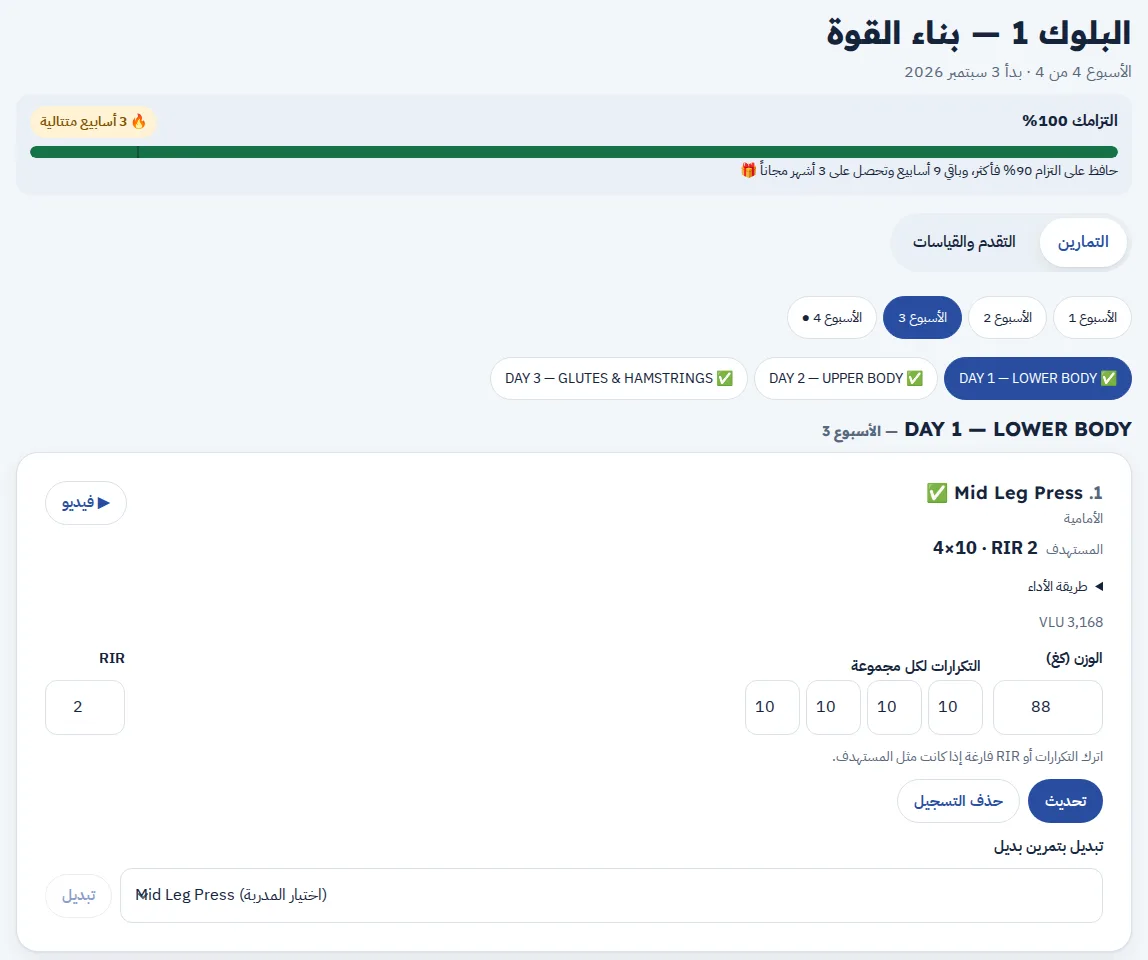
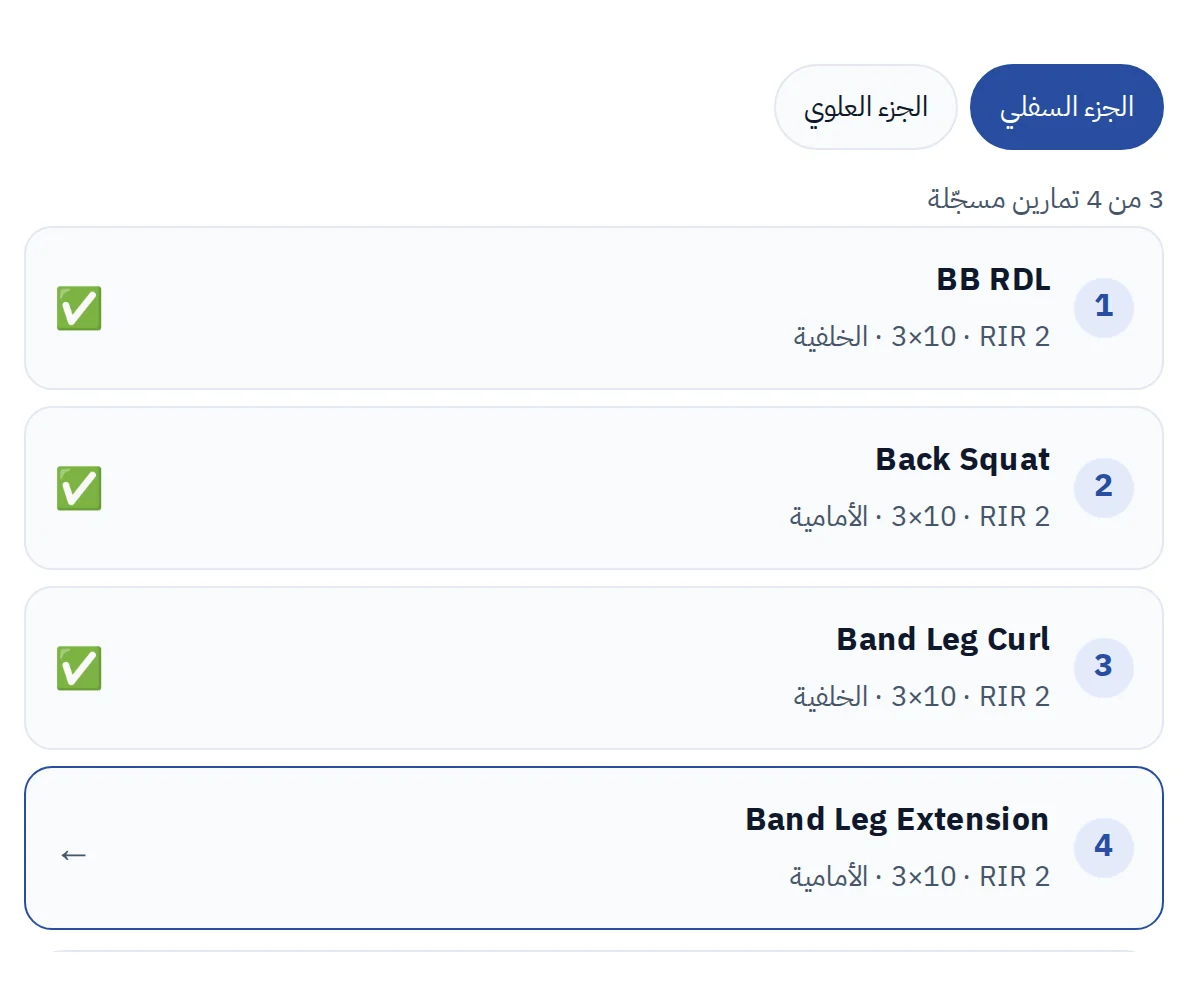
الثقة والجوال في الصفحات الداخلية + لقطات «نظرة داخل البرنامج» بالعربي
- عن المدربة: صورة الكوتش في الهيرو بعمودين (إذا رُفعت صورة باستخدام «عن المدربة»)، وثلاثة اقتباسات حقيقية من التقييمات المنشورة في الختام، والرابط الثانوي نصي.
- التقييمات: سطر تعريفي بدل التنبيه الطبي أعلى الصفحة (التنبيه انتقل تحت التقييمات)، وزر «البرامج والأسعار» في الآخر.
- الجوال: أهداف لمس 44px (زر الوضع، روابط التذييل، مسار التنقل، «المزيد»)، خطوط أكبر للعناوين الصغيرة والشارات و«تقييم موثّق»، نجوم بتباين أعلى، الآيبان مجمّع كل 4 أرقام، وجدول المقارنة بعمود أول ثابت وتلميح للتمرير.
- لقطات «نظرة داخل البرنامج» من جديد بأيام عربية والبلوك بالعربي (بنفس نسب الصور القديمة، بدون تعديل الإعدادات)، وشارة «نموذج توضيحي» انتقلت للعنوان بدل ما تغطي الصورة.

Claude-Session: https://claude.ai/code/session_01A1WaCdLQnTRQkH7Ps2Mz3T

diff --git a/src/app/(site)/about/page.tsx b/src/app/(site)/about/page.tsx
@@ -1,6 +1,7 @@
 import type { Metadata } from "next";
 import Link from "next/link";
-import { getApprovedMedia, getProducts, getSettings } from "@/lib/data";
+import ReviewCard from "@/components/ReviewCard";
+import { getApprovedMedia, getProducts, getSettings, getPublicReviews } from "@/lib/data";
 
 export const revalidate = 3600; // ساعة. تعديلات الإدارة تُحدّث الصفحات فوراً (revalidatePath)، فلا حاجة لإعادة توليد كل 5 دقائق (وهي ما تسبب بطء أول زائر)
 export const metadata: Metadata = { title: "عن الكوتش ساره | ناڤ", description: "تعرّفي على الكوتش ساره (ناڤ): خلفيتها في التدريب والتغذية وأسلوب المتابعة الأسبوعية في برامج Nav Coaching." };
@@ -13,7 +14,9 @@ function Para({ text }: { text: string }) {
 
 // محتوى وترتيب صفحة «عن المدربة» في الموقع الحالي، وكل النصوص تتعدل من لوحة الإدارة
 export default async function About() {
-  const [s, photos, products] = await Promise.all([getSettings(), getApprovedMedia("about"), getProducts()]);
+  const [s, photos, products, reviews] = await Promise.all([getSettings(), getApprovedMedia("about"), getProducts(), getPublicReviews(12)]);
+  // ثلاث تقييمات حقيقية قصيرة للختام (من التقييمات المنشورة فقط، بدون تعديل)
+  const quotes = reviews.filter((r) => r.body.length <= 230).slice(0, 3);
   const a = s.about;
   const published = new Set(products.map((p) => `/programs/${p.slug}`));
   // رابط منتج لا يظهر إلا إذا كان المنتج منشوراً فعلاً
@@ -22,10 +25,18 @@ export default async function About() {
   return (
     <div className="pub">
       <section className="page-hero">
-        <div className="wrap">
-          <span className="eyebrow">عن المدربة</span>
-          <h1 style={{ fontSize: "clamp(32px,6vw,56px)", marginTop: 12 }}>{a.name}</h1>
-          <p className="lead">{a.bio}</p>
+        <div className={`wrap${photos[0] ? " about-hero" : ""}`}>
+          <div>
+            <span className="eyebrow">عن المدربة</span>
+            <h1 style={{ fontSize: "clamp(32px,6vw,56px)", marginTop: 12 }}>{a.name}</h1>
+            <p className="lead">{a.bio}</p>
+          </div>
+          {photos[0] && (
+            <figure className="about-photo">
+              {/* eslint-disable-next-line @next/next/no-img-element */}
+              <img src={`/api/files/media/${photos[0].id}`} alt={photos[0].alt} fetchPriority="high" />
+            </figure>
+          )}
         </div>
       </section>
 
@@ -35,10 +46,6 @@ export default async function About() {
             <span className="eyebrow">قصتي</span>
             <h2>{a.story_title}</h2>
             {a.story.map((t) => <Para key={t} text={t} />)}
-            {photos[0] && (
-              // eslint-disable-next-line @next/next/no-img-element
-              <img src={`/api/files/media/${photos[0].id}`} alt={photos[0].alt} loading="lazy" style={{ borderRadius: 18, width: "100%", height: "auto" }} />
-            )}
           </div>
         </section>
       ) : null}
@@ -88,7 +95,12 @@ export default async function About() {
       <section className="section">
         <div className="wrap center stack" style={{ justifyItems: "center", display: "grid" }}>
           <h2>وش قالوا اللي تدربوا معي؟</h2>
-          <div className="row" style={{ justifyContent: "center" }}>
+          {quotes.length > 0 && (
+            <div className="reviews reviews-home about-quotes" style={{ textAlign: "start", width: "100%" }}>
+              {quotes.map((r) => <ReviewCard key={r.id} r={r} />)}
+            </div>
+          )}
+          <div className="row" style={{ justifyContent: "center", gap: "8px 24px" }}>
             <Link className="btn" href="/programs">البرامج والأسعار</Link>
             <Link className="text-link" href="/reviews">تقييمات المتدربين ←</Link>
           </div>

diff --git a/src/app/globals.css b/src/app/globals.css
@@ -371,7 +371,7 @@ bdi, .ltr { unicode-bidi: isolate; direction: ltr; }
 .shot button:focus-visible { outline: 3px solid var(--cyan); outline-offset: 3px; }
 .shot img { width: 100%; height: auto; transition: transform 0.5s var(--ease); }
 .shot button:hover img { transform: scale(1.03); }
-.shot .sample { position: absolute; inset-inline-start: 10px; top: 10px; }
+.shot .sample { margin-inline-start: 6px; vertical-align: middle; font-family: var(--f-body); font-weight: 500; }
 .shot figcaption b { display: block; font-family: var(--f-display); }
 .shot figcaption span { color: var(--muted); font-size: 15px; }
 dialog.lightbox { border: 0; padding: 0; background: transparent; max-width: min(96vw, 1400px); max-height: 92vh; }
@@ -1663,3 +1663,36 @@ legend { max-width: 100%; white-space: normal; overflow-wrap: anywhere; padding-
 @media (max-width: 700px) { .pub .page-hero + .section:not(.white)::before { width: 180px; opacity: 0.05; } }
 /* على الجوال: صندوق المدة يأتي مباشرة بعد العنوان، والشريط الثابت يكفي، فلا نكرر السعر والزر في الهيرو */
 @media (max-width: 760px) { .hero-buy { display: none; } }
+
+/* ---------- قراءة ولمس أوضح على الجوال (الصفحات العامة) ---------- */
+.theme-btn { flex: none; min-width: 44px; }
+.site-footer li a { display: inline-flex; align-items: center; min-height: 44px; }
+.crumbs a { display: inline-flex; align-items: center; min-height: 44px; }
+.review-text .link-btn { min-height: 44px; }
+.pub .eyebrow { font-size: 14px; }
+.tag { font-size: 13.5px; }
+.pcard .kicker { font-size: 14px; }
+.review .verified { font-size: 13.5px; }
+/* النجوم بلون كهرماني أغمق (تباين أعلى من 3:1 على الأبيض)، وأفتح في الداكن */
+.stars { color: #a56c00; }
+@media (prefers-color-scheme: dark) { :root:not([data-theme="light"]) .stars { color: #f5b82e; } }
+:root[data-theme="dark"] .stars { color: #f5b82e; }
+/* الآيبان: سطر واحد مجمّع كل 4 أرقام */
+.bank .iban { word-break: normal; overflow-wrap: normal; white-space: normal; letter-spacing: 0.02em; text-align: start; }
+
+/* جدول المقارنة على الجوال: العمود الأول ثابت وتلاشٍ يدل على التمرير */
+@media (max-width: 760px) {
+  .pub .table-wrap { position: relative; }
+  .pub .table-wrap .t th[scope="row"], .pub .table-wrap .t thead th:first-child {
+    position: sticky; inset-inline-start: 0; z-index: 1; background: var(--surface); box-shadow: -1px 0 0 var(--line) inset;
+  }
+  .pub .compare-hint { display: block; }
+}
+.compare-hint { display: none; margin: 0 0 8px; color: var(--muted); font-size: 14px; }
+
+/* عن المدربة: الصورة في الهيرو بعمودين */
+.about-hero { display: grid; gap: clamp(24px, 4vw, 48px); align-items: center; }
+@media (min-width: 961px) { .about-hero { grid-template-columns: minmax(0, 1fr) minmax(0, 380px); } }
+.about-photo { margin: 0; border: 1px solid var(--line); border-radius: 18px; overflow: hidden; background: var(--surface); max-width: 420px; }
+.about-photo img { display: block; width: 100%; height: auto; }
+.about-quotes { margin-top: 8px; }

diff --git a/src/app/(site)/reviews/page.tsx b/src/app/(site)/reviews/page.tsx
@@ -14,13 +14,17 @@ export default async function Reviews() {
         <div className="wrap">
           <span className="eyebrow">التقييمات</span>
           <h1 style={{ fontSize: "clamp(30px,5vw,50px)", marginTop: 12 }}>تقييمات المتدربين</h1>
-          <p className="lead">{s.testimonials_disclaimer}</p>
+          <p className="lead">تجارب متدربين حقيقية، تُنشر بموافقتهم وبدون أي تعديل على النص.</p>
         </div>
       </section>
       <section className="section tight">
         <div className="wrap">
           <div className="reviews">{reviews.map((r) => <ReviewCard key={r.id} r={r} />)}</div>
-          <p className="small muted">كل تقييم يُراجع قبل النشر ولا يُعدّل نصه. <Link href="/policies#reviews">سياسة التقييمات</Link></p>
+          <p className="small muted">{s.testimonials_disclaimer} كل تقييم يُراجع قبل النشر ولا يُعدّل نصه. <Link href="/policies#reviews">سياسة التقييمات</Link></p>
+          <div className="row" style={{ marginTop: 24, gap: "8px 24px" }}>
+            <Link href="/programs" className="btn">البرامج والأسعار</Link>
+            <Link href="/faq" className="text-link">الأسئلة الشائعة ←</Link>
+          </div>
         </div>
       </section>
     </div>

diff --git a/src/app/(site)/faq/page.tsx b/src/app/(site)/faq/page.tsx
@@ -36,7 +36,7 @@ export default async function Faq() {
               <div className="bank">
                 <div><span className="muted small">اسم الحساب</span><div>{s.bank.accountName}</div></div>
                 <div><span className="muted small">البنك</span><div>{s.bank.bankName}</div></div>
-                <div><span className="muted small">الآيبان</span><div className="iban"><bdi>{s.bank.iban}</bdi></div></div>
+                <div><span className="muted small">الآيبان</span><div className="iban" dir="ltr">{s.bank.iban.replace(/\s+/g, "").replace(/(.{4})/g, "$1 ").trim()}</div></div>
                 <CopyButton value={s.bank.iban} label="نسخ الآيبان" />
               </div>
               <p className="small muted" style={{ marginTop: 10 }}>التحويل يكون بعد إرسال الاستبيان فقط، وظهور رقم الطلب والمبلغ.</p>

diff --git a/src/components/Shots.tsx b/src/components/Shots.tsx
@@ -15,9 +15,8 @@ export default function Shots({ shots }: { shots: Settings["program_shots"] }) {
             <button type="button" onClick={() => { setCur(i); dlg.current?.showModal(); }} aria-label={`تكبير: ${sh.title}`}>
               {/* eslint-disable-next-line @next/next/no-img-element */}
               <img src={shotSrc(sh.src)} alt={sh.alt} width={sh.w} height={sh.h} loading="eager" decoding="async" />
-              <span className="tag soft sample">نموذج توضيحي</span>
             </button>
-            <figcaption><b>{sh.title}</b><span>{sh.caption}</span></figcaption>
+            <figcaption><b>{sh.title} <span className="tag soft sample">نموذج توضيحي</span></b><span>{sh.caption}</span></figcaption>
           </figure>
         ))}
       </div>

diff --git a/src/app/(site)/programs/page.tsx b/src/app/(site)/programs/page.tsx
@@ -65,6 +65,7 @@ export default async function Programs() {
         <section className="section tight white">
           <div className="wrap">
             <div className="sec-head"><span className="eyebrow">مقارنة</span><h2>مقارنة باقات المتابعة</h2></div>
+            <p className="compare-hint">سحب الجدول جانبياً يعرض باقي الباقات ←</p>
             <div className="table-wrap">
               <table className="t">
                 <thead>
